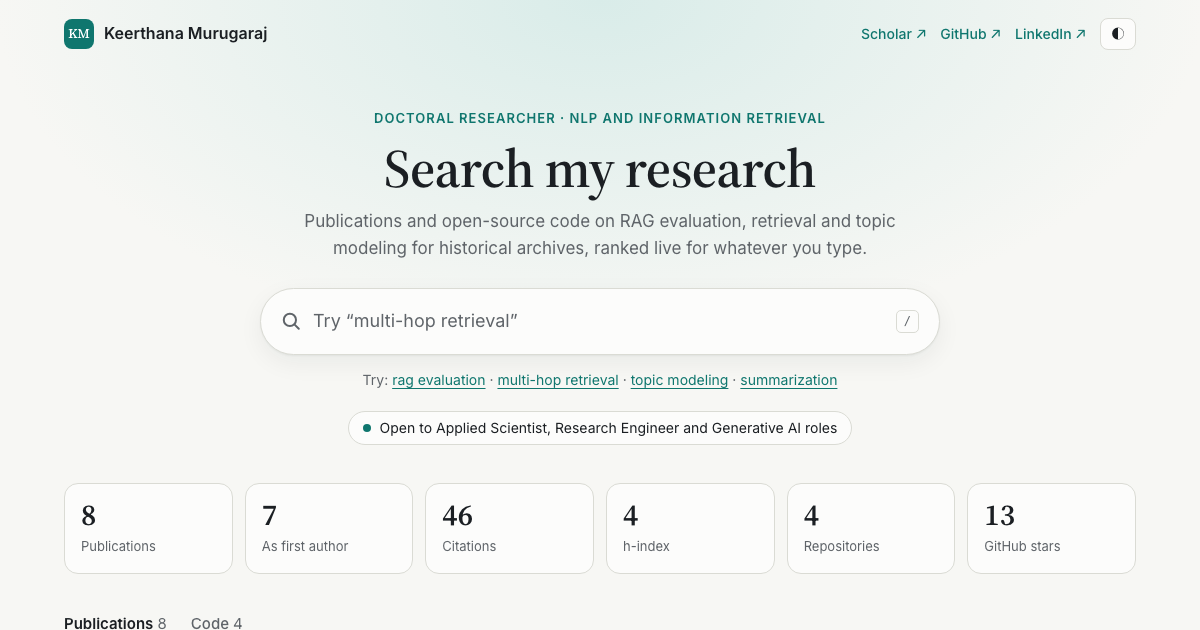
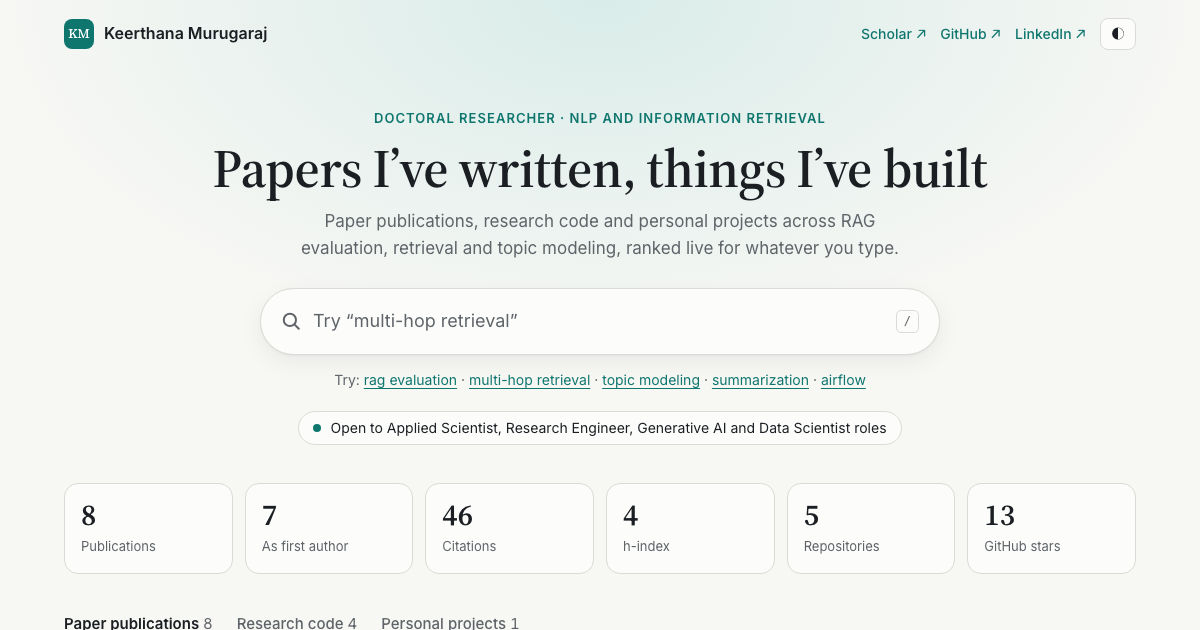
update info

diff --git a/index.html b/index.html
@@ -3,13 +3,13 @@
 <head>
 <meta charset="UTF-8">
 <meta name="viewport" content="width=device-width, initial-scale=1">
-<title>Keerthana Murugaraj — Research Search</title>
-<meta name="description" content="Search the publications and open-source code of Keerthana Murugaraj: RAG evaluation, retrieval, and topic modeling for historical archives.">
+<title>Keerthana Murugaraj — Papers and Projects</title>
+<meta name="description" content="Search the papers, research code and personal projects of Keerthana Murugaraj: RAG evaluation, retrieval, topic modeling and data pipelines.">
 <link rel="canonical" href="https://keerthanamurugaraj.github.io/myportfolio/">
 <meta property="og:type" content="website">
 <meta property="og:url" content="https://keerthanamurugaraj.github.io/myportfolio/">
-<meta property="og:title" content="Keerthana Murugaraj — Research Search">
-<meta property="og:description" content="Publications and open-source code on RAG evaluation, retrieval and topic modeling, in a small search engine.">
+<meta property="og:title" content="Keerthana Murugaraj — Papers and Projects">
+<meta property="og:description" content="Papers, research code and personal projects on RAG evaluation, retrieval and topic modeling, in a small search engine.">
 <meta property="og:image" content="https://keerthanamurugaraj.github.io/myportfolio/og.png">
 <meta property="og:image:width" content="1200">
 <meta property="og:image:height" content="630">
@@ -33,7 +33,7 @@
     --mark: #FBE7A1;
     --shadow: 0 1px 2px rgb(20 30 30 / 0.05), 0 8px 24px rgb(20 30 30 / 0.06);
     /* Topic colours, in fixed order */
-    --t1: #2a78d6; --t2: #eb6834; --t3: #1baf7a; --t4: #eda100; --t5: #e87ba4; --t6: #008300;
+    --t1: #2a78d6; --t2: #eb6834; --t3: #1baf7a; --t4: #eda100; --t5: #e87ba4; --t6: #008300; --t7: #7a5fd0;
     --serif: "Source Serif 4", "Iowan Old Style", Palatino, Georgia, serif;
     --sans: Inter, system-ui, -apple-system, "Segoe UI", Roboto, sans-serif;
     --mono: ui-monospace, SFMono-Regular, Menlo, Consolas, monospace;
@@ -51,7 +51,7 @@
     --on-accent: #0E1113;
     --mark: #5C4A0E;
     --shadow: 0 1px 2px rgb(0 0 0 / 0.3), 0 8px 24px rgb(0 0 0 / 0.25);
-    --t1: #3987e5; --t2: #d95926; --t3: #199e70; --t4: #c98500; --t5: #d55181; --t6: #008300;
+    --t1: #3987e5; --t2: #d95926; --t3: #199e70; --t4: #c98500; --t5: #d55181; --t6: #008300; --t7: #8f76e0;
   }
   * { box-sizing: border-box; }
   body {
@@ -220,6 +220,8 @@
     .hero { padding: 24px 0 26px; }
     #slash { display: none; }
     .top-row a.opt { display: none; }
+    .tabs { flex-wrap: wrap; gap: 0 16px; }
+    .tab { font-size: 14px; }
     .facets { flex-basis: 100%; }
     .stats { gap: 8px; }
     .stat { padding: 10px 12px; }
@@ -252,16 +254,16 @@
 
     <div class="hero">
       <p class="eyebrow">Doctoral researcher · NLP and information retrieval</p>
-      <h1>Search my research</h1>
-      <p class="lede">Publications and open-source code on RAG evaluation, retrieval and topic modeling for historical archives, ranked live for whatever you type.</p>
+      <h1>Papers I’ve written, things I’ve built</h1>
+      <p class="lede">Paper publications, research code and personal projects across RAG evaluation, retrieval and topic modeling, ranked live for whatever you type.</p>
       <div id="box" role="search">
         <svg width="20" height="20" viewBox="0 0 18 18" fill="none" aria-hidden="true"><circle cx="8" cy="8" r="5.5" stroke="currentColor" stroke-width="1.8"/><path d="M12.5 12.5L16 16" stroke="currentColor" stroke-width="1.8" stroke-linecap="round"/></svg>
-        <input id="q" type="search" placeholder="Try “multi-hop retrieval”" aria-label="Search publications and code" autocomplete="off" spellcheck="false">
+        <input id="q" type="search" placeholder="Try “multi-hop retrieval”" aria-label="Search publications and projects" autocomplete="off" spellcheck="false">
         <button id="clear" hidden>Clear</button>
         <kbd id="slash">/</kbd>
       </div>
       <div class="tries">Try: <span id="tries"></span></div>
-      <a class="open-to" href="#about"><i></i> Open to Applied Scientist, Research Engineer and Generative AI roles</a>
+      <a class="open-to" href="#about"><i></i> Open to Applied Scientist, Research Engineer, Generative AI and Data Scientist roles</a>
     </div>
   </div>
 </div>
@@ -449,19 +451,34 @@ let REPOS = [
   { name: "Topic-RAG-for-Historical-Newspapers", description: "Enhancing Information Retrieval in Humanities Research through Topic-Based Retrieval-Augmented Generation", language: "Jupyter Notebook", stars: 3, pushed: "2026-10-02" },
   { name: "Rectify-An-Interactive-Workbench-for-Post-Evaluation-RAG-Repair-and-Verification", description: "", language: "Python", stars: 0, pushed: "2026-09-22" },
   { name: "Automating-Historical-Insight-Extraction-from-Large-Scale-Newspaper-Archives-via-NTM", description: "Topic Modeling for historical domain data", language: "Jupyter Notebook", stars: 0, pushed: "2026-10-09" },
+  { name: "Property-listings-pipeline-with-Airflow-and-RAG-search", description: "", language: "Python", stars: 0, pushed: "2026-10-13" },
 ];
 
-// The order fixes each topic's colour (--t1 to --t6), so do not reorder it.
-const TOPIC_ORDER = ["RAG", "Evaluation", "Retrieval", "Topic modeling", "Summarization", "Historical archives"];
-const TRIES = ["rag evaluation", "multi-hop retrieval", "topic modeling", "summarization"];
+// Shorter display names, plus a summary and topics for repositories that have no publication.
+// A repository missing here is still listed, under its GitHub name and description.
+const REPO_INFO = {
+  "RAGVue-Diagnostic": { title: "RAGVue" },
+  "Rectify-An-Interactive-Workbench-for-Post-Evaluation-RAG-Repair-and-Verification": { title: "Rectify" },
+  "Topic-RAG-for-Historical-Newspapers": { title: "Topic-RAG for Historical Newspapers" },
+  "Automating-Historical-Insight-Extraction-from-Large-Scale-Newspaper-Archives-via-NTM": { title: "Historical insight extraction with neural topic modeling" },
+  "Property-listings-pipeline-with-Airflow-and-RAG-search": {
+    title: "Property listings pipeline with Airflow and RAG search",
+    summary: "An end-to-end data pipeline orchestrated with Apache Airflow: rental listings from three simulated estate agencies are collected daily, cleaned and merged in SQL with DuckDB, and made searchable in plain language through a LanceDB index that goes live only after it passes an evaluation.",
+    topics: ["Data engineering", "RAG", "Retrieval"],
+  },
+};
+
+// The order fixes each topic's colour (--t1 to --t7), so do not reorder it.
+const TOPIC_ORDER = ["RAG", "Evaluation", "Retrieval", "Topic modeling", "Summarization", "Historical archives", "Data engineering"];
+const TRIES = ["rag evaluation", "multi-hop retrieval", "topic modeling", "summarization", "airflow"];
 
 const SKILLS = [
   ["AI and NLP", ["RAG", "LLM evaluation", "Prompt engineering", "AI agents", "Topic modeling", "Text summarization", "Semantic search", "Multi-hop QA"]],
-  ["Information retrieval", ["BM25", "Dense and sparse retrieval", "Hybrid retrieval", "Query expansion", "Semantic reranking", "FAISS", "Chroma", "Qdrant"]],
+  ["Information retrieval", ["BM25", "Dense and sparse retrieval", "Hybrid retrieval", "Query expansion", "Semantic reranking", "FAISS", "Chroma", "Qdrant", "LanceDB"]],
   ["Frameworks", ["PyTorch", "TensorFlow", "Hugging Face Transformers", "Sentence Transformers", "LangChain", "LangGraph", "CrewAI", "BERTopic", "spaCy", "FastAPI"]],
-  ["Languages and tools", ["Python", "SQL", "C++", "Docker", "Git", "Linux", "HPC", "Microsoft Azure", "Jupyter", "LaTeX"]],
+  ["Languages and tools", ["Python", "SQL", "C++", "Apache Airflow", "DuckDB", "Docker", "Git", "Linux", "HPC", "Microsoft Azure", "Jupyter", "LaTeX"]],
 ];
-const ROLES = ["Applied Scientist", "Research Engineer", "NLP Engineer", "Generative AI Engineer"];
+const ROLES = ["Applied Scientist", "Research Engineer", "NLP Engineer", "Generative AI Engineer", "Data Scientist"];
 
 const pubByRepo = Object.fromEntries(PUBLICATIONS.filter((p) => p.repo).map((p) => [p.repo, p]));
 const findPub = (id) => PUBLICATIONS.find((p) => p.id === id);
@@ -480,9 +497,11 @@ function buildIndex() {
     ...PUBLICATIONS.map((p) => ({ kind: "pub", ...p, date: String(p.year), weight: p.cites })),
     ...REPOS.map((r) => {
       const pub = pubByRepo[r.name];
+      const info = REPO_INFO[r.name] || {};
       return {
-        kind: "repo", ...r, id: "repo:" + r.name, title: r.name.replace(/[-_]+/g, " "), pub,
-        snippet: r.description || (pub ? pub.snippet : ""), points: [], topics: pub ? pub.topics : [],
+        // A repository behind a publication is research code; any other is a personal project.
+        kind: pub ? "repo" : "personal", ...r, id: "repo:" + r.name, title: info.title || r.name.replace(/[-_]+/g, " "), pub,
+        snippet: r.description || info.summary || (pub ? pub.snippet : ""), points: [], topics: pub ? pub.topics : info.topics || [],
         date: r.pushed, weight: r.stars,
       };
     }),
@@ -490,7 +509,7 @@ function buildIndex() {
   for (const d of DOCS) {
     // Title counts three times and topics twice, so matches there rank higher.
     const text = [d.title, d.title, d.title, d.topics.join(" "), d.topics.join(" "), d.snippet, d.points.join(" "),
-      d.short || "", d.venue || "", d.type || "", d.authors || "", d.language || "", d.year || ""].join(" ");
+      d.short || "", d.venue || "", d.type || "", d.authors || "", d.language || "", d.year || "", d.name || ""].join(" ");
     d.tokens = tokens(text).map(stem);
   }
   AVG_LEN = DOCS.reduce((n, d) => n + d.tokens.length, 0) / DOCS.length;
@@ -614,11 +633,12 @@ function render() {
   const matched = terms.length ? rank(terms) : DOCS.map((doc) => ({ doc, score: 0 }));
   const inTopic = matched.filter((r) => !state.topic || r.doc.topics.includes(state.topic));
 
-  $("#tabs").innerHTML = [["pub", "Publications"], ["repo", "Code"]].map(([id, label]) =>
+  $("#tabs").innerHTML = [["pub", "Paper publications"], ["repo", "Research code"], ["personal", "Personal projects"]].map(([id, label]) =>
     `<button class="tab" role="tab" data-tab="${id}" aria-selected="${state.tab === id}">${label} <span class="n">${inTopic.filter((r) => r.doc.kind === id).length}</span></button>`).join("");
 
   // Facet counts ignore the selected topic, so the other topics stay comparable.
   const inTab = matched.filter((r) => r.doc.kind === state.tab);
+  $("#facets").style.display = DOCS.some((d) => d.kind === state.tab && d.topics.length) ? "" : "none";
   $("#facets").innerHTML = TOPIC_ORDER.map((t) =>
     `<button class="facet" style="${topicVar(t)}" data-topic="${t}" aria-pressed="${state.topic === t}"><i class="dot"></i>${t} <span class="n">${inTab.filter((r) => r.doc.topics.includes(t)).length}</span></button>`).join("");
 
@@ -763,7 +783,13 @@ document.addEventListener("click", (e) => {
   if (t.dataset.tab) { state.tab = t.dataset.tab; state.sort = null; }
   else if (t.dataset.topic) state.topic = state.topic === t.dataset.topic ? null : t.dataset.topic;
   else if (t.dataset.sort) state.sort = t.dataset.sort;
-  else if (t.dataset.try) return setQuery(t.dataset.try);
+  else if (t.dataset.try) {
+    // Open the tab that holds the matches when the current one has none.
+    const kinds = rank(queryTerms(t.dataset.try)).map((r) => r.doc.kind);
+    if (kinds.length && !kinds.includes(state.tab)) { state.tab = kinds[0]; state.sort = null; }
+    state.topic = null;
+    return setQuery(t.dataset.try);
+  }
   else {
     // A paper chosen from the chart or a repository: show it, or clear the search if it is already selected.
     const short = findPub(t.dataset.pub).short;
@@ -797,7 +823,7 @@ showAsOf();
 
 const start = new URLSearchParams(location.search);
 if (TOPIC_ORDER.includes(start.get("topic"))) state.topic = start.get("topic");
-if (start.get("tab") === "repo") state.tab = "repo";
+if (["repo", "personal"].includes(start.get("tab"))) state.tab = start.get("tab");
 buildIndex();
 setQuery(start.get("q") || "");
 loadRepos();
